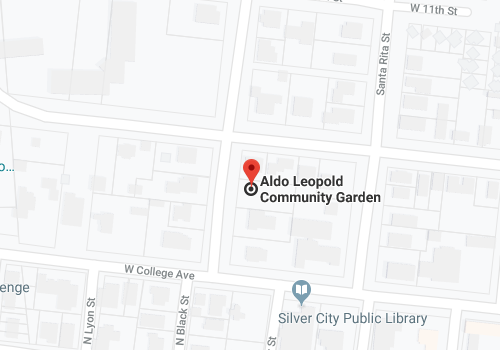
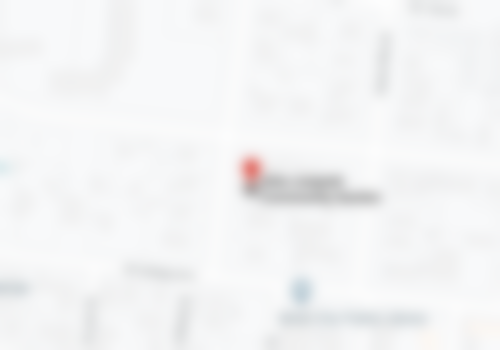
...

diff --git a/yoohoo/Ludwig.html b/yoohoo/Ludwig.html
@@ -5,12 +5,7 @@
 	<link rel="icon" href="favicon.ico" type="image/x-icon" />
 	<link href="style/profilestyle.css" rel="stylesheet" type="text/css">
 	<script src="js/sidebar.js"></script>
-	<style>
-		.blur {
-			-webkit-filter: blur(4px);
-			filter: blur(4px);
-		}
-	</style>
+
 
 </head>
 
@@ -67,14 +62,15 @@
 	</div>
 
 	<span style="font-size:30px;cursor:pointer; margin-top: 90px" onclick="openNav()">
-		<img style="cursor:pointer; width:55px; height:55px; vertical-align:sub; margin-left: 10px" onclick="openNav()" src="images/LudwigBraunstein.png" alt="Ludwig"> Profile
+		<img style="cursor:pointer; width:55px; height:55px; vertical-align:sub; margin-left: 10px" 
+		onclick="openNav()" src="images/LudwigBraunstein.png" alt="Ludwig"> Profile
 	</span>
 
 	<div class="feed">
 		<!--post #1:-->
 		<p id="postHeader">Ludwig turned on Location Sharing and gained 35 Social Points!</p>
 		<div id="post" class="post">
-			<img class="blur" id="locationImage" src="images/location.png" alt="location">
+			<img id="locationImage" src="images/location.png" alt="location">
 			<p id="pleaseLogin"> More Social Points Are Required To View This Info!
 			</p>
 			<p class="iconsRuleDivider"></p>
@@ -118,7 +114,7 @@
 		<!--post #3:-->
 		<p id="postHeader">Ludwig shared an image</p>
 		<div id="post" class="lastpost">
-			<p>Bahahaha!</p>
+			<p style="font-weight: normal">Bahahaha!</p>
 			<br>
 			<div id="imageBacker">
 				<img id="imagePost" src="images/cybertruck.jpg" alt="imagepost">

diff --git a/yoohoo/Tallulah.html b/yoohoo/Tallulah.html
@@ -5,12 +5,7 @@
 	<link rel="icon" href="favicon.ico" type="image/x-icon" />
 	<link href="style/profilestyle.css" rel="stylesheet" type="text/css">
 	<script src="js/sidebar.js"></script>
-	<style>
-		.blur {
-			-webkit-filter: blur(4px);
-			filter: blur(4px);
-		}
-	</style>
+
 </head>
 
 <body style="background-color: #B9E2FA">
@@ -73,7 +68,7 @@
 		<!--post #1:-->
 		<p id="postHeader">Tallulah turned on Location Sharing and gained 12 Social Points!</p>
 		<div id="post" class="post">
-			<img class="blur" id="locationImage" src="images/location.png" alt="location">
+			<img id="locationImage" src="images/location.png" alt="location">
 			<p id="pleaseLogin"> More Social Points Are Required To View This Info!
 			</p>
 			<p class="iconsRuleDivider"></p>

diff --git a/yoohoo/feed.html b/yoohoo/feed.html
@@ -202,7 +202,7 @@
         <!--User information (picture, name, social points & date)-->
         <div class="postUserInformation">
           <a href="ChaJinAe.html"><img src="images/ChaJinAe.png" alt="profile picture"></a>
-          <p>ACha Jin-Ae | 302 209 855 s.p. (master)<br>56 minutes ago</p>
+          <p>Cha Jin-Ae | 302 209 855 s.p. (master)<br>56 minutes ago</p>
         </div>
         <!--Actual post (text and/or picture)-->
         <center>

diff --git a/yoohoo/style/profilestyle.css b/yoohoo/style/profilestyle.css
@@ -211,9 +211,9 @@ color: white;
 		#pleaseLogin {
 			background-color: grey;
 			position: absolute;
-			top: 310px;
+			top: 365px;
 			left: 50%;
-			margin-left: -225px;
+			margin-left: -222px;
 			font-weight: bold;
 			color: black;
 			font-size: 16px;
